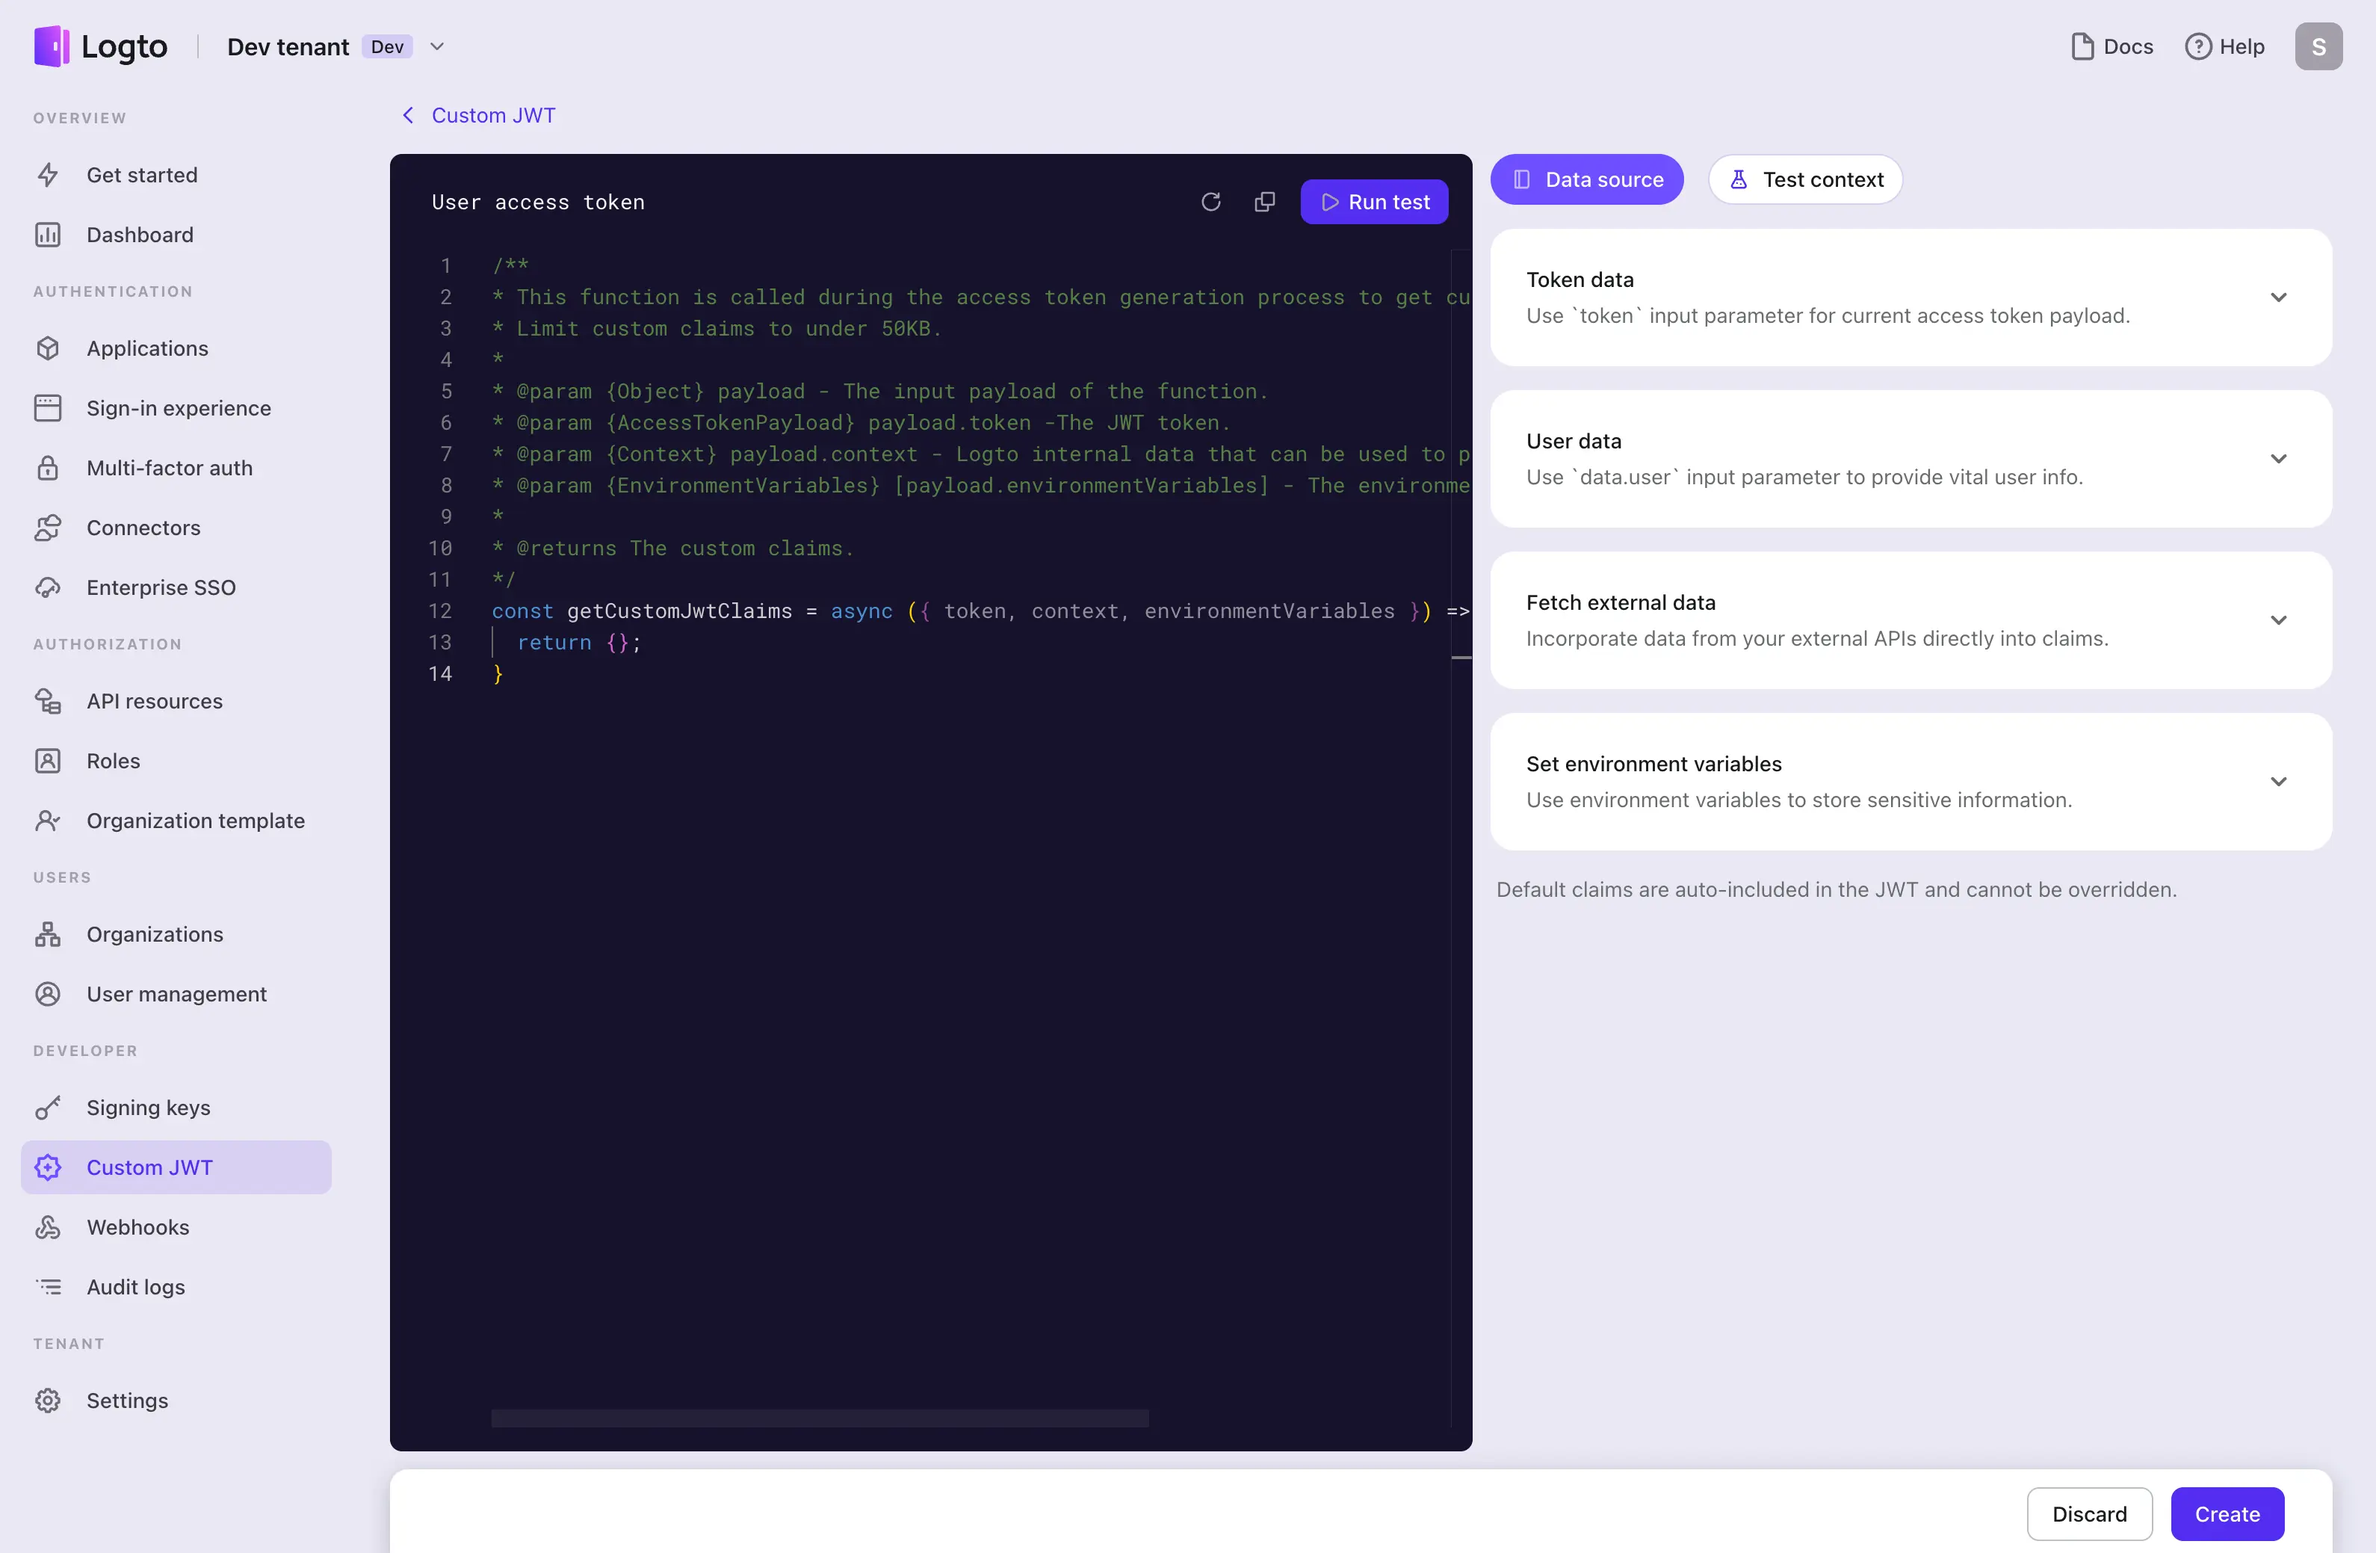
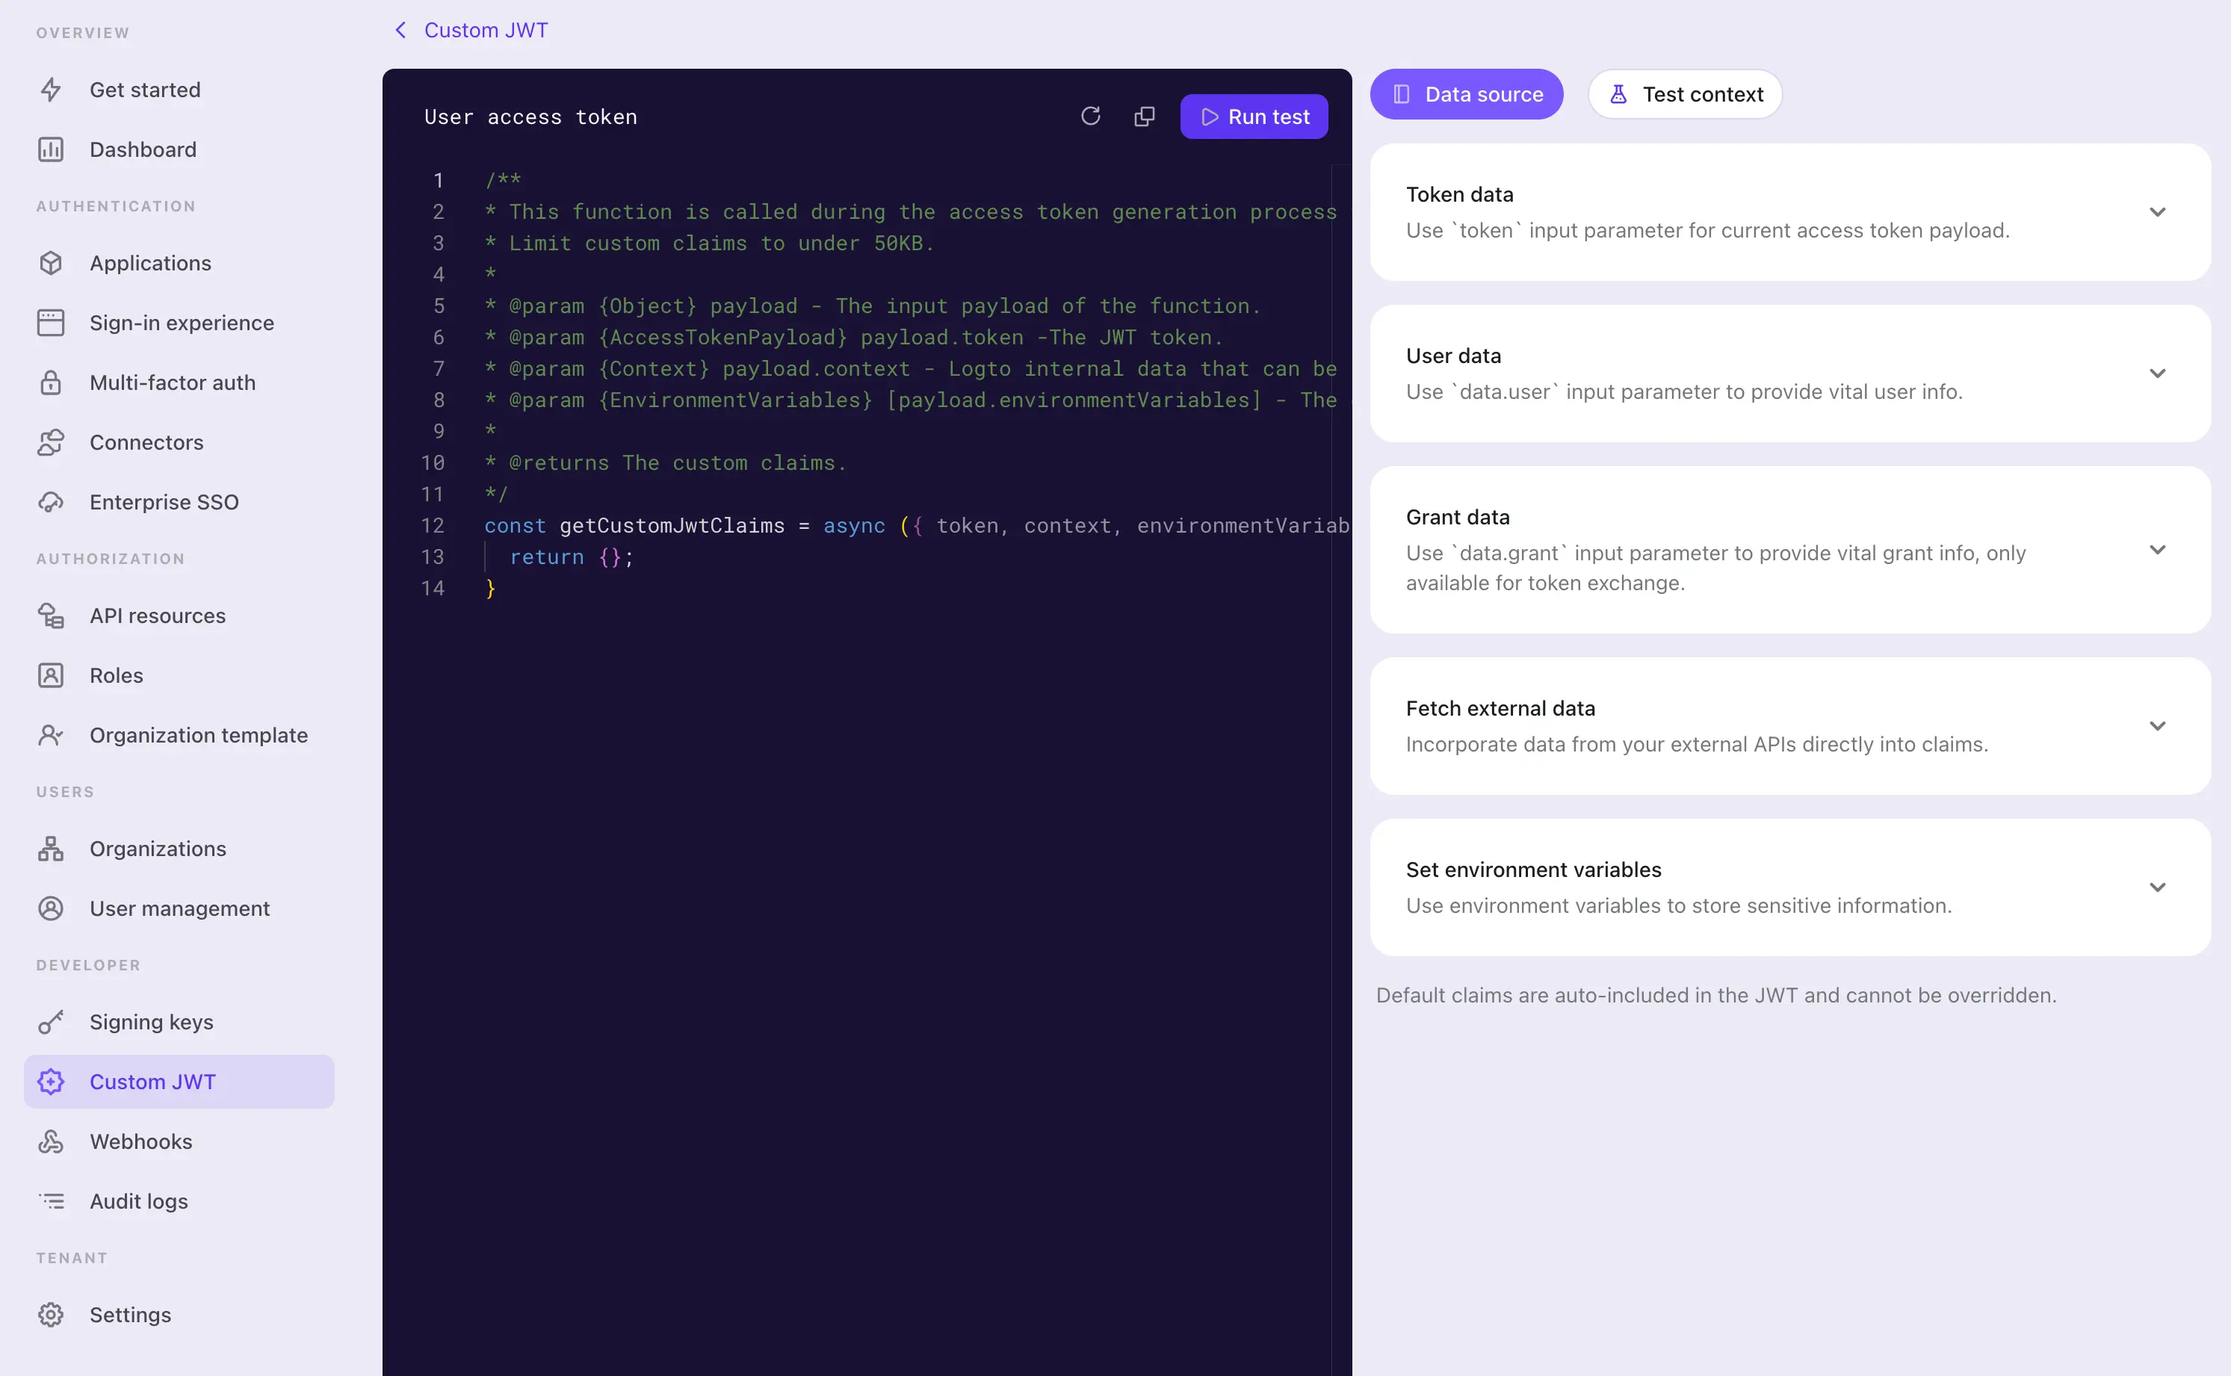
feat: add impersonation to custom jwt doc (#748)
* feat: add impersonation

* feat: add impersonation to custom jwt doc

diff --git a/docs/docs/recipes/custom-jwt/README.md b/docs/docs/recipes/custom-jwt/README.md
@@ -125,6 +125,10 @@ You may find the detailed type definition of the token payload object and user d
 
 For user access token, Logto provides additional user data context for you to access. The user data object contains all the user profile data and organization membership data you may need to set up the custom claims. Please check [Users](../../references/users/README.md) and [Organizations](../../recipes/organizations/README.mdx) for more details.
 
+**Grant data object:**
+
+For user access token granted by token exchange, Logto provides additional grant data context for you to access. The grant data object contains the custom context from the subject token. Please check [Impersonation](../impersonation/#customizing-jwt-claims) for more details.
+
 **Environment variables:**
 
 Use the **Set environment variables** section on the right to set up the environment variables for your script. You may use these variables to store sensitive information or configuration data that you don't want to hardcode in the script. e.g. API keys, secrets, or URLs.
